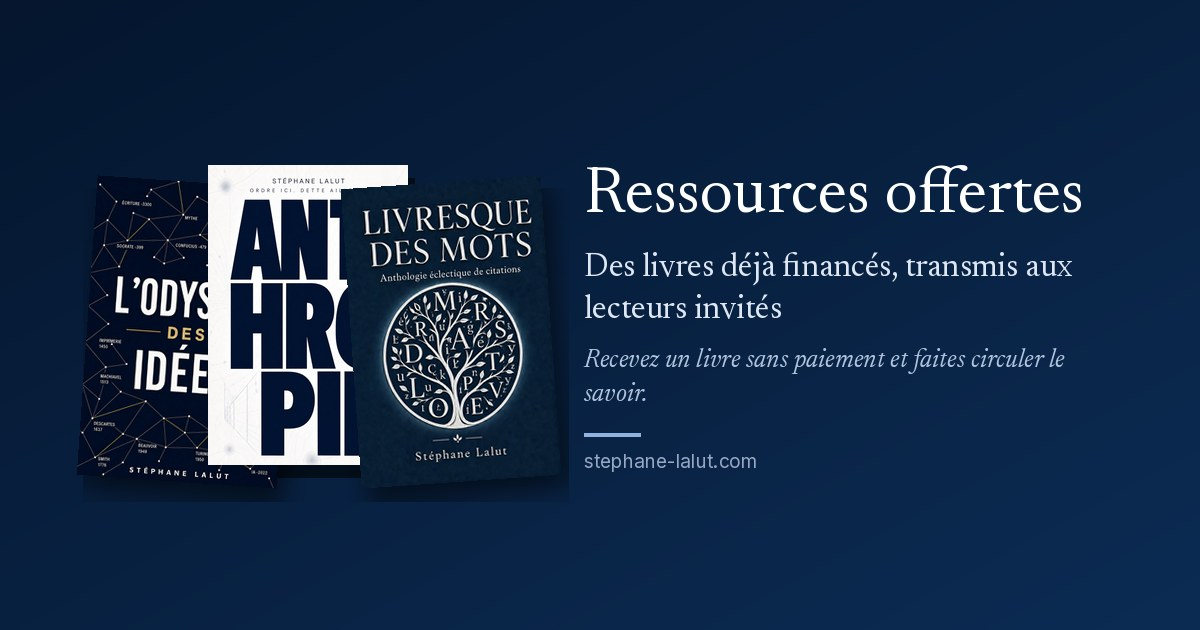
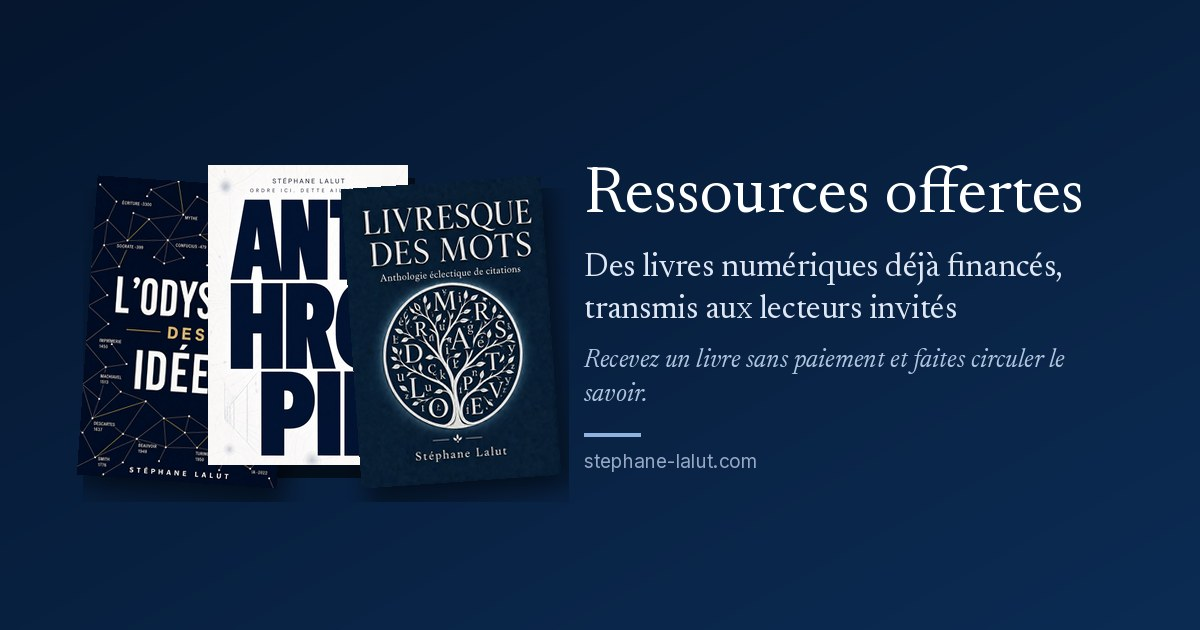
content(ressources): og:image précise « livres numériques » (Kindle)

Changed region(s): [[0.4933, 0.3921, 0.8942, 0.5127]]

diff --git a/content/ressources-offertes/_index.md b/content/ressources-offertes/_index.md
@@ -11,7 +11,7 @@ og_description: "Recevez un livre sans paiement. Des ouvrages transmis sur invit
 twitter_title: "Ressources offertes — des livres déjà financés"
 twitter_description: "Recevez un livre sans paiement. Une chaîne de transmission du savoir."
 og_image: "images/og-ressources-offertes.jpg"
-og_image_alt: "Ressources offertes — des livres déjà financés, transmis aux lecteurs invités. L'Odyssée des idées, Anthropie et Livresque des mots."
+og_image_alt: "Ressources offertes — des livres numériques déjà financés, transmis aux lecteurs invités. L'Odyssée des idées, Anthropie et Livresque des mots."
 _build:
   list: never        # exclue du sitemap et des listes internes
   render: always     # l'URL reste servie pour qui possède le lien